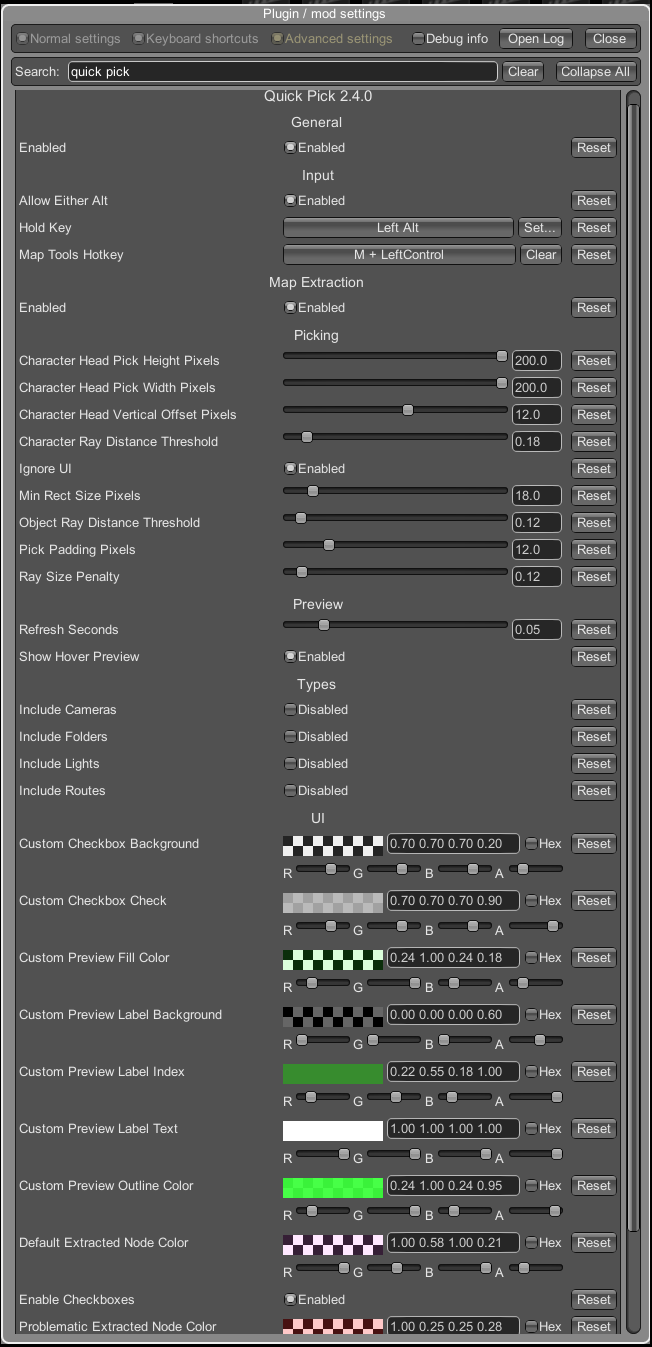
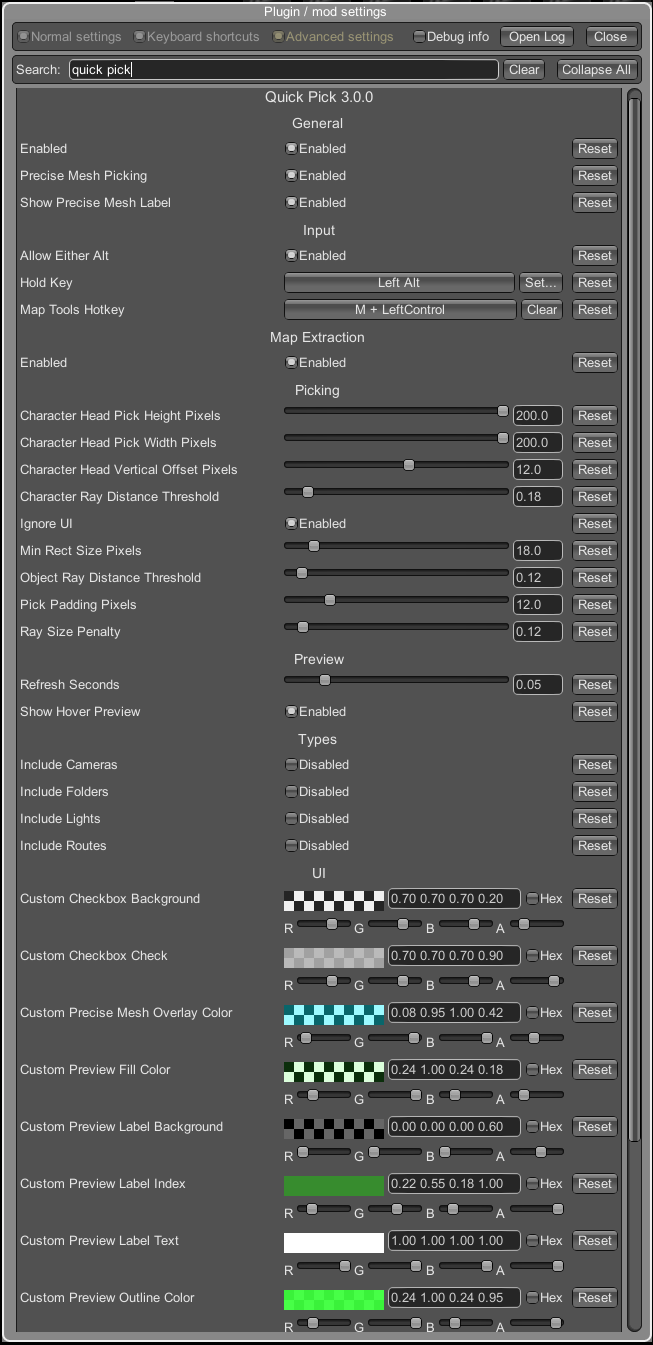
Update Quick Pick mesh picking guide

diff --git a/quick-pick.md b/quick-pick.md
@@ -36,6 +36,30 @@ For characters, aim near the head when several characters are close together, ov
 
 For very small objects, objects behind other objects, or objects inside other objects, move the camera closer, change the angle, or use the mouse wheel to choose the exact candidate.
 
+## Mesh Picking Mode
+
+<div class="video-preview">
+  <iframe
+    src="https://www.youtube-nocookie.com/embed/LOCguoSpYMc"
+    title="Quick Pick mesh picking mode video"
+    allow="accelerometer; autoplay; clipboard-write; encrypted-media; gyroscope; picture-in-picture; web-share"
+    allowfullscreen>
+  </iframe>
+</div>
+
+**Mesh Picking Mode** is an optional precise picking mode for **Alt** picking. It lets Quick Pick detect objects by their actual mesh shape instead of only using the older broad bounds-based hover.
+
+Mouse wheel cycling between overlapping hover candidates still works in this mode.
+
+In Mesh Picking Mode, the hover label is shown at the bottom-center of the screen. It can be disabled in the plugin settings.
+
+The precise mesh overlay has its own separate color setting in the plugin settings.
+
+Notes:
+
+- Characters still use the previous picking mode for now.
+- Warning: precise mesh picking can noticeably lag on non-extracted live maps. Extracted maps do not suffer from this because they are handled like normal Studio objects.
+
 ## Tree Controls
 
 Quick Pick can add small checkboxes to the Studio tree.
@@ -196,7 +220,7 @@ The default Studio scene loader can break with Quick Pick cached or extracted ma
 
 ## Notes
 
-- Current [Quick Pick](https://www.patreon.com/posts/153284087?collection=2042055) version in this guide: `2.4.0`.
+- Current [Quick Pick](https://www.patreon.com/posts/153284087?collection=2042055) version in this guide: `3.0.0`.
 - Quick Pick is made for **StudioNEOV2**.
 - [BepInEx 5](https://github.com/BepInEx/BepInEx/releases) and [HS2API](https://gofile.io/d/VYsLtI) are required by the plugin.
 - [Advanced Item Search](https://gofile.io/d/m03H5K) is used for cached map asset workflows.
